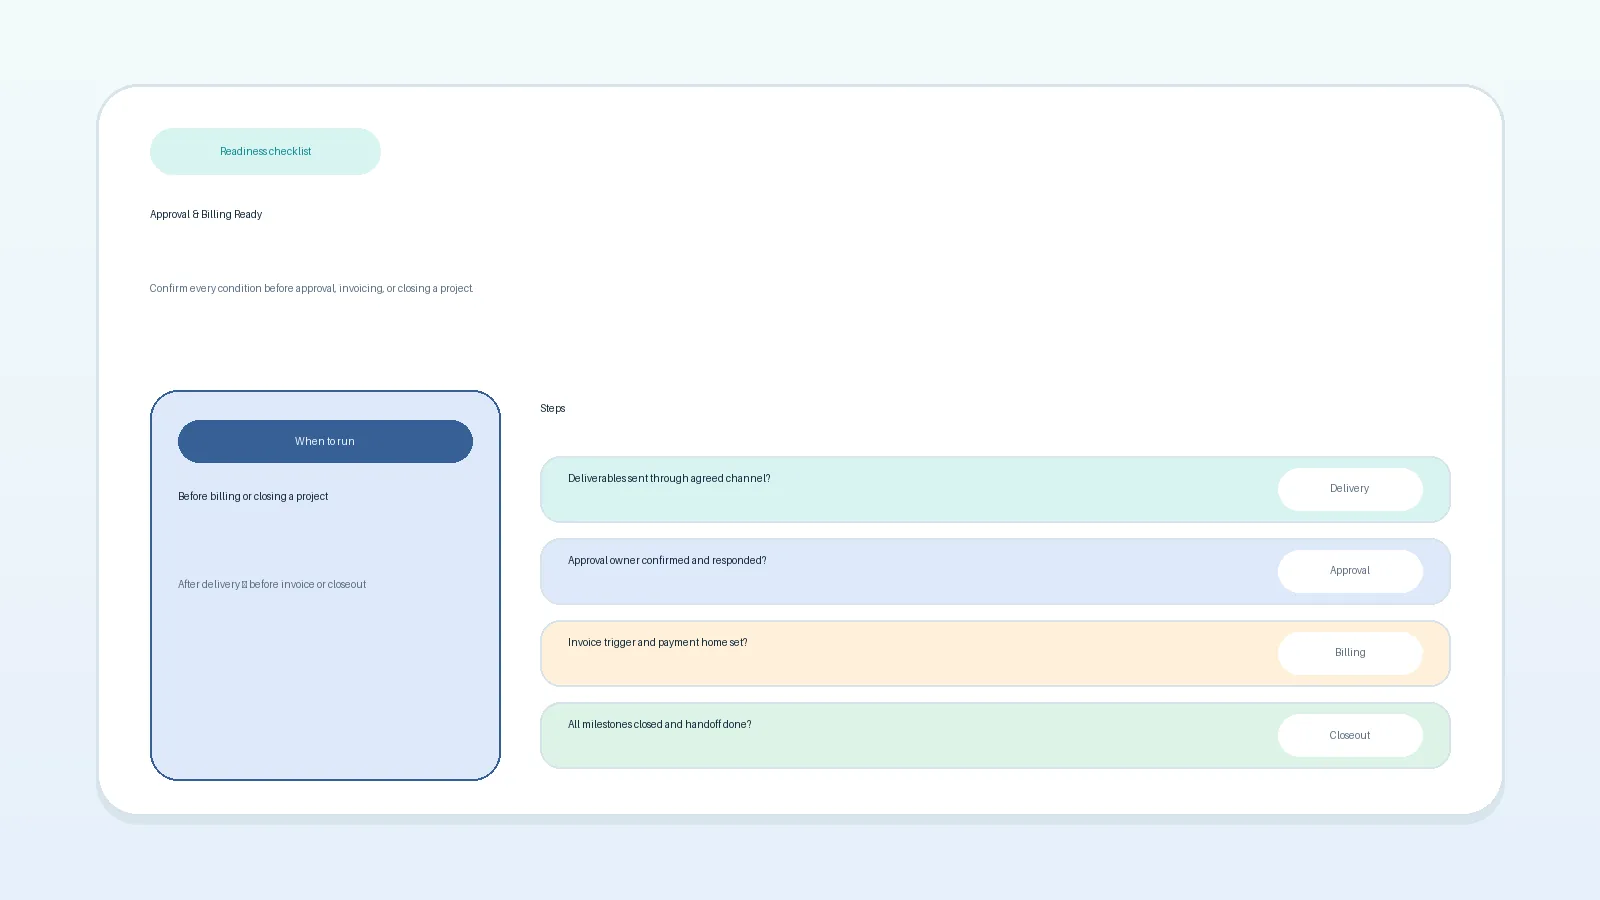
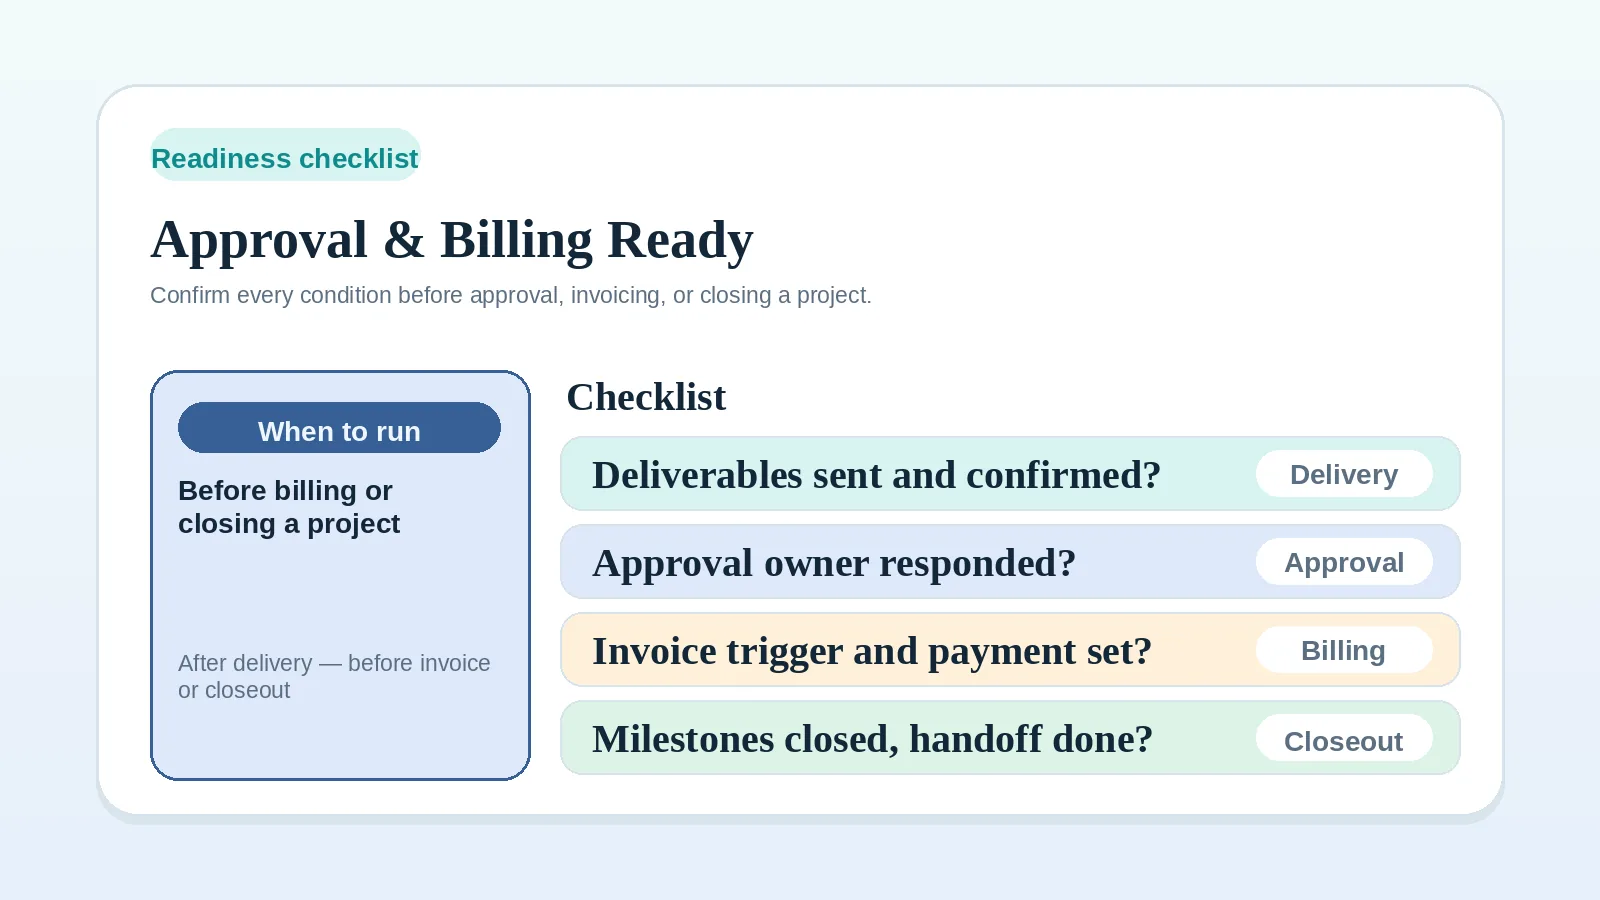
Improve checklist image readability
Step labels enlarged from 28px to 40px, tag pills from 20px to 28px,
row height increased from 66px to 74px. Step label text shortened to
4-6 words for legibility at card display size. Linux font paths added
to fonts.py so images render with real typefaces on this platform.
Four checklist card images regenerated with no warnings.

diff --git a/tools/feature-images/feature_images/templates/checklist_card.py b/tools/feature-images/feature_images/templates/checklist_card.py
@@ -6,24 +6,24 @@ def render_checklist_card(spec, context):
     helpers = context["helpers"]
 
     helpers["shadowed_box"](draw, (96, 84, 1504, 816), palette["frame"], palette["stroke"], palette["shadow"], radius=42)
-    helpers["pill"](draw, (150, 128, 380, 174), palette["accent_soft"], spec["eyebrow"], fonts["pill"], palette["accent"])
+    helpers["pill"](draw, (150, 128, 420, 180), palette["accent_soft"], spec["eyebrow"], fonts["card_title"], palette["accent"])
     draw.text((150, 208), spec["title"], font=fonts["title"], fill=palette["ink"])
-    helpers["draw_text_block"](draw, spec["subtitle"], fonts["subtitle"], palette["muted"], (150, 282, 760, 72), 8, report, "checklist subtitle", max_lines=2)
+    helpers["draw_text_block"](draw, spec["subtitle"], fonts["card_body"], palette["muted"], (150, 282, 820, 72), 8, report, "checklist subtitle", max_lines=2)
 
     # Left trigger box — when to run this checklist
-    trigger_box = (150, 390, 500, 780)
-    helpers["rounded_box"](draw, trigger_box, fill=palette["secondary_soft"], outline=palette["secondary"], width=2, radius=28)
-    helpers["pill"](draw, (178, 420, 472, 462), palette["secondary"], "When to run", fonts["small"], "#eef6ff")
-    helpers["draw_text_block"](draw, spec["trigger"]["label"], fonts["card_title"], palette["ink"], (178, 490, 294, 80), 8, report, "checklist trigger label", max_lines=2)
-    helpers["draw_text_block"](draw, spec["trigger"]["note"], fonts["card_body"], palette["muted"], (178, 578, 298, 80), 6, report, "checklist trigger note", max_lines=3)
+    trigger_box = (150, 370, 530, 780)
+    helpers["rounded_box"](draw, trigger_box, fill=palette["secondary_soft"], outline=palette["secondary"], width=3, radius=28)
+    helpers["pill"](draw, (178, 402, 500, 452), palette["secondary"], "When to run", fonts["card_title"], "#eef6ff")
+    helpers["draw_text_block"](draw, spec["trigger"]["label"], fonts["card_title"], palette["ink"], (178, 474, 314, 160), 8, report, "checklist trigger label", max_lines=4)
+    helpers["draw_text_block"](draw, spec["trigger"]["note"], fonts["card_body"], palette["muted"], (178, 650, 314, 100), 6, report, "checklist trigger note", max_lines=3)
 
-    # Right steps area — 4 task rows
-    draw.text((540, 402), "Steps", font=fonts["panel_title"], fill=palette["ink"])
+    # Right steps area — 4 task rows with large readable labels
+    draw.text((566, 374), "Checklist", font=fonts["panel_title"], fill=palette["ink"])
     steps = spec.get("steps", [])
     row_fills = [palette["accent_soft"], palette["secondary_soft"], palette["warm_soft"], palette["good_soft"]]
     for index, step in enumerate(steps[:4]):
-        y = 456 + (index * 82)
-        row_box = (540, y, 1450, y + 66)
-        helpers["rounded_box"](draw, row_box, fill=row_fills[index % 4], outline=palette["stroke"], width=2, radius=20)
-        helpers["draw_text_block"](draw, step["label"], fonts["card_title"], palette["ink"], (568, y + 16, 680, 50), 6, report, f"checklist step {index}", max_lines=1)
-        helpers["pill"](draw, (1278, y + 12, 1422, y + 54), palette["frame"], step["tag"], fonts["small"], palette["muted"])
+        y = 436 + (index * 88)
+        row_box = (560, y, 1460, y + 74)
+        helpers["rounded_box"](draw, row_box, fill=row_fills[index % 4], outline=palette["stroke"], width=2, radius=22)
+        helpers["draw_text_block"](draw, step["label"], fonts["panel_title"], palette["ink"], (592, y + 16, 740, 56), 6, report, f"checklist step {index}", max_lines=1)
+        helpers["pill"](draw, (1256, y + 14, 1432, y + 60), palette["frame"], step["tag"], fonts["card_title"], palette["muted"])

diff --git a/tools/feature-images/feature_images/fonts.py b/tools/feature-images/feature_images/fonts.py
@@ -5,6 +5,23 @@ from PIL import ImageFont
 
 WINDOWS_FONTS = Path("C:/Windows/Fonts")
 
+LINUX_BOLD_FONTS = [
+    "/usr/share/fonts/truetype/liberation/LiberationSans-Bold.ttf",
+    "/usr/share/fonts/truetype/dejavu/DejaVuSans-Bold.ttf",
+    "/usr/share/fonts/truetype/ubuntu/Ubuntu-B.ttf",
+]
+
+LINUX_REGULAR_FONTS = [
+    "/usr/share/fonts/truetype/liberation/LiberationSans-Regular.ttf",
+    "/usr/share/fonts/truetype/dejavu/DejaVuSans.ttf",
+    "/usr/share/fonts/truetype/ubuntu/Ubuntu-R.ttf",
+]
+
+LINUX_SERIF_BOLD_FONTS = [
+    "/usr/share/fonts/truetype/liberation/LiberationSerif-Bold.ttf",
+    "/usr/share/fonts/truetype/dejavu/DejaVuSerif-Bold.ttf",
+]
+
 
 def _load_font(candidates: list[str], size: int) -> ImageFont.FreeTypeFont | ImageFont.ImageFont:
     for candidate in candidates:
@@ -14,14 +31,26 @@ def _load_font(candidates: list[str], size: int) -> ImageFont.FreeTypeFont | Ima
     return ImageFont.load_default()
 
 
+def _load_font_cross_platform(windows_candidates: list[str], linux_candidates: list[str], size: int) -> ImageFont.FreeTypeFont | ImageFont.ImageFont:
+    for candidate in windows_candidates:
+        path = WINDOWS_FONTS / candidate
+        if path.exists():
+            return ImageFont.truetype(str(path), size=size)
+    for candidate in linux_candidates:
+        path = Path(candidate)
+        if path.exists():
+            return ImageFont.truetype(str(path), size=size)
+    return ImageFont.load_default()
+
+
 def get_font_set() -> dict[str, ImageFont.FreeTypeFont | ImageFont.ImageFont]:
     return {
-        "eyebrow": _load_font(["arialbd.ttf", "segoeuib.ttf"], 24),
-        "title": _load_font(["georgiab.ttf", "arialbd.ttf"], 54),
-        "panel_title": _load_font(["georgiab.ttf", "arialbd.ttf"], 40),
-        "subtitle": _load_font(["arial.ttf", "segoeui.ttf"], 28),
-        "card_title": _load_font(["arialbd.ttf", "segoeuib.ttf"], 28),
-        "card_body": _load_font(["arial.ttf", "segoeui.ttf"], 23),
-        "pill": _load_font(["arialbd.ttf", "segoeuib.ttf"], 22),
-        "small": _load_font(["arial.ttf", "segoeui.ttf"], 20),
+        "eyebrow": _load_font_cross_platform(["arialbd.ttf", "segoeuib.ttf"], LINUX_BOLD_FONTS, 24),
+        "title": _load_font_cross_platform(["georgiab.ttf", "arialbd.ttf"], LINUX_SERIF_BOLD_FONTS + LINUX_BOLD_FONTS, 54),
+        "panel_title": _load_font_cross_platform(["georgiab.ttf", "arialbd.ttf"], LINUX_SERIF_BOLD_FONTS + LINUX_BOLD_FONTS, 40),
+        "subtitle": _load_font_cross_platform(["arial.ttf", "segoeui.ttf"], LINUX_REGULAR_FONTS, 28),
+        "card_title": _load_font_cross_platform(["arialbd.ttf", "segoeuib.ttf"], LINUX_BOLD_FONTS, 28),
+        "card_body": _load_font_cross_platform(["arial.ttf", "segoeui.ttf"], LINUX_REGULAR_FONTS, 23),
+        "pill": _load_font_cross_platform(["arialbd.ttf", "segoeuib.ttf"], LINUX_BOLD_FONTS, 22),
+        "small": _load_font_cross_platform(["arial.ttf", "segoeui.ttf"], LINUX_REGULAR_FONTS, 20),
     }

diff --git a/TRACKER.md b/TRACKER.md
@@ -10,7 +10,7 @@ Read this after `AGENT.md`. This is the live project tracker for current state, 
 - Priority cluster posture: the workflow cluster remains the strongest first operational path; blueprint and comparison clusters stay downstream of workflow diagnosis.
 - Content structure status: homepage, hubs, cornerstone pages, and support gating have already received multiple tightening passes; support pages should stay subordinate to workflow, blueprint, and comparison pages.
 - Strongest current clusters: client workflow systems, software stack blueprints, workflow comparisons.
-- Current feature-image status: 42 WebPs active across 6 categories (hubs, blueprints, comparisons, templates, glossary, faq); SVG fallbacks remain only for workflow stage pages; Python/Pillow workflow expanded with 3 new templates (`checklist_card`, `concept_map`, `faq_card`) and 15 total data configs in the templates category; the original 4 approved hero WebPs are untouched; all 15 templates/checklists pages now use topic-specific WebP images; `checklist_card` trigger-label text wrapping fixed — 8 of 15 trigger labels overflowed the 294px trigger box; all 15 images regenerated with fix applied; new `client-closeout-no-response-faq.webp` generated for the new closeout FAQ.
+- Current feature-image status: 42 WebPs active across 6 categories (hubs, blueprints, comparisons, templates, glossary, faq); SVG fallbacks remain only for workflow stage pages; Python/Pillow workflow expanded with 3 new templates (`checklist_card`, `concept_map`, `faq_card`) and 15 total data configs in the templates category; the original 4 approved hero WebPs are untouched; all 15 templates/checklists pages now use topic-specific WebP images; `checklist_card` trigger-label text wrapping fixed — 8 of 15 trigger labels overflowed the 294px trigger box; all 15 images regenerated with fix applied; new `client-closeout-no-response-faq.webp` generated for the new closeout FAQ; checklist image readability pass completed 2026-05-02 — step labels enlarged from 28px to 40px, tag pills enlarged from 20px to 28px, row height increased, step labels shortened to 4–6 words for card-size legibility; `fonts.py` updated to resolve real fonts on Linux (LiberationSans-Bold, DejaVuSans-Bold) so generated images use proper typefaces instead of the bitmap fallback; four images regenerated: `workflow-diagnostic-checklist.webp`, `stack-decision-readiness-checklist.webp`, `client-workflow-health-check.webp`, `approval-billing-readiness-checklist.webp`.
 - Current build/deploy status: Cloudflare Pages builds from source, and `public/` is generated output that should remain ignored and untracked.
 - Current repo workflow: read `AGENT.md`, read `TRACKER.md`, make a scoped change, update `TRACKER.md`, then commit and push if successful.
 - Current operating rhythm: Claude Code is the daily content/improvement tool; Codex is the default weekly review/fix tool and the monthly deeper audit tool; daily Codex use is reserved for heavy build weeks or pre-AdSense submission.
@@ -66,6 +66,8 @@ Priority URLs to monitor:
 - See `project-docs/BUILD-VALIDATION.md` for the full build/validation reference.
 
 ## Recent completed passes
+
+- 2026-05-02 template/checklist image readability pass: four `checklist_card` images had text too small to read at card display size; step row labels were 28px (card_title), tag pills were 20px (small font), and row height was 66px; fixes: (1) `checklist_card.py` redesigned — step labels now use 40px panel_title font, tag pills use 28px card_title font, row height increased to 74px, trigger box widened and repositioned; (2) `fonts.py` updated to resolve real system fonts on Linux (LiberationSans-Bold and DejaVuSans-Bold via absolute paths) so images use proper typefaces instead of the Pillow bitmap fallback; (3) four JSON data configs updated with shorter step labels (4–6 words) to fit the 40px font without overflow; all four images regenerated with no warnings: `workflow-diagnostic-checklist.webp` (43.5K), `stack-decision-readiness-checklist.webp` (46.2K), `client-workflow-health-check.webp` (44.0K), `approval-billing-readiness-checklist.webp` (46.7K); filenames and front matter references unchanged; validation: `git diff --check` clean; Hugo build clean with Hugo v0.161.1+extended, 86 pages, no errors, no warnings; `public/` remained ignored/generated; files changed: `tools/feature-images/feature_images/templates/checklist_card.py`, `tools/feature-images/feature_images/fonts.py`, four JSON data configs under `tools/feature-images/feature_images/data/templates/`, four `.webp` files under `static/images/features/templates/`, `TRACKER.md`; next recommended action: wait for the next GSC data cycle before another SEO response pass.
 
 - 2026-05-02 duplicate calendar date cleanup: found duplicate publish calendar dates after the prior timestamp-only cleanup for 2026-04-02 (17 pages), 2026-04-06 (7 pages), 2026-04-07 (12 pages), 2026-04-08 (15 pages), 2026-04-22 (3 pages), and 2026-04-26 (4 pages); changed only `date` lines in 57 content files and this tracker; rule used: preserve existing `Z` timestamp format, use midnight baseline dates, preserve current editorial order, keep already-unique singleton dates on 2026-04-09, 2026-04-24, and 2026-04-25, and spread the affected duplicate-date pages across the nearest compact no-future range from 2026-03-03 through 2026-05-02; no `lastmod` changes because no affected front matter used `lastmod`; duplicate calendar-date report now shows no duplicate publish dates; no body copy, title, slug, URL, alias, layout, CSS, JS, image, or generated output changes made; validation: `git diff --check` clean; production build clean with Hugo v0.161.1+extended, 86 pages, no errors, no warnings; `public/` remained ignored/generated; next recommended action: wait for the next GSC data cycle before another SEO response pass; commit hash: 56fb489149059045617867061ffd61c5ef642b6a.
 
